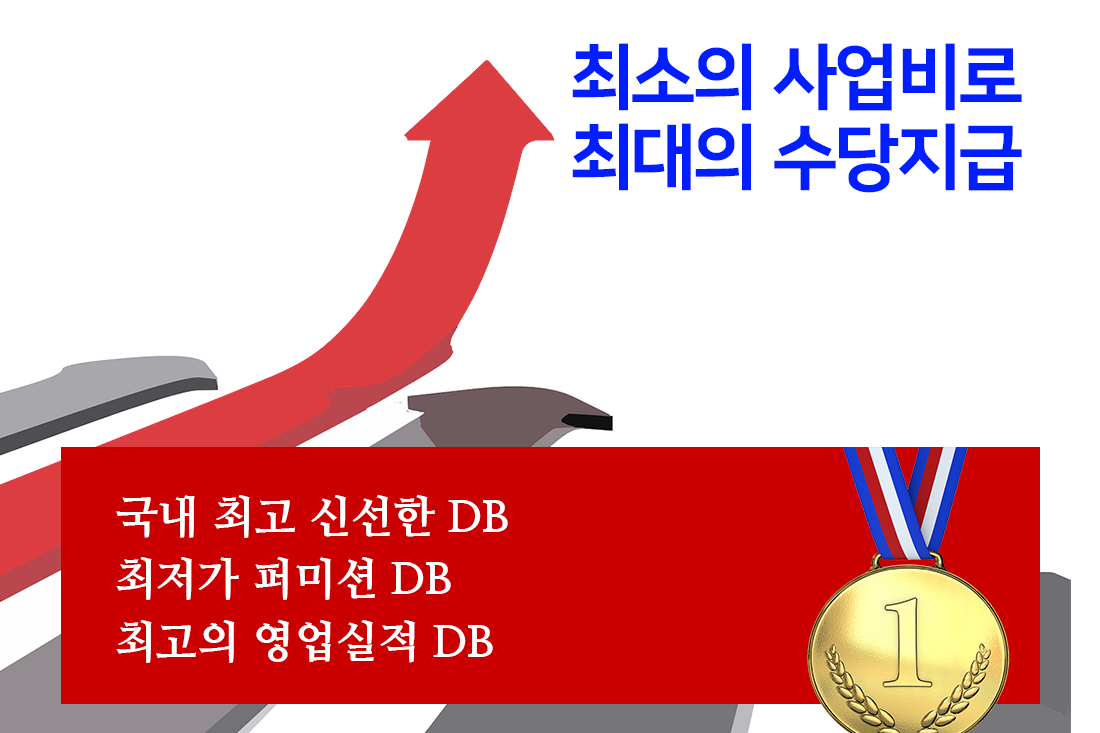
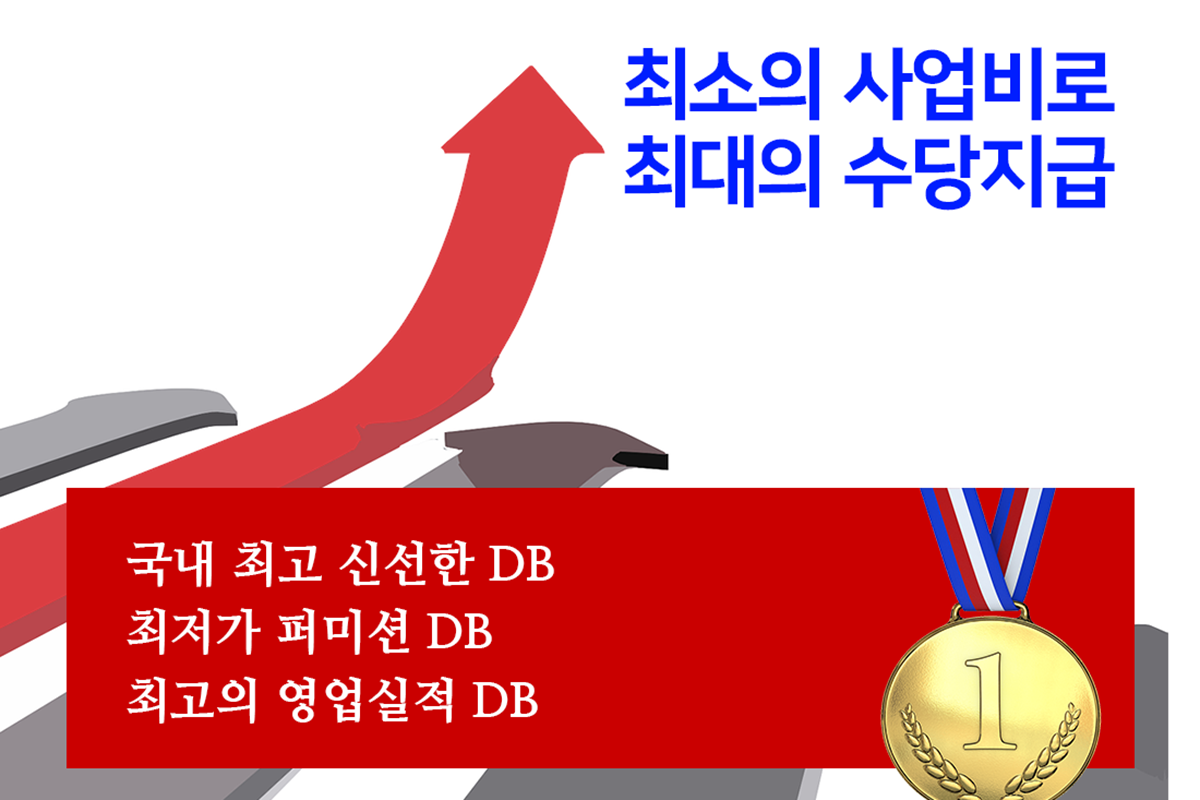
1208-15:00 샤무실

diff --git a/insurance_site.html b/insurance_site.html
@@ -3,7 +3,7 @@
 <head>
     <meta charset="UTF-8">
     <meta name="viewport" content="width=device-width, initial-scale=1.0">
-    <title>Document</title>
+    <title>DREAM MAKER</title>
     <link href="https://hangeul.pstatic.net/hangeul_static/css/nanum-barun-gothic.css" rel="stylesheet">
     <link href="https://hangeul.pstatic.net/hangeul_static/css/nanum-square-round.css" rel="stylesheet">
     <link href="https://hangeul.pstatic.net/hangeul_static/css/nanum-myeongjo.css" rel="stylesheet">
@@ -35,7 +35,7 @@
                     <h2>업계 최상위 수수료</h2>
                 </div>
                 <div class="right">
-                    <h2>평생갱신수수표!<br>
+                    <h2>평생갱신수수료!<br>
                         업계 최고의 영업교육</h2>
                     <h2>One Call One Kill</h2>
                 </div>

diff --git a/css/insurance_site.css b/css/insurance_site.css
@@ -53,7 +53,7 @@ ul li{list-style-type: none;}
 }
 .sect01_subtitle{
     text-align: center; font-family: 'Noto Sans KR', sans-serif;
-    font-size: 1.5em; margin-top: 50px;
+    font-size: 1.5em; margin-top: 100px;
 }
 .sect01_subtitle > h1:first-of-type{
     color: rgb(0, 81, 255); 
@@ -227,7 +227,8 @@ ul li{list-style-type: none;}
 
 #sect05{
     background-image: url(../images/03.png); background-repeat: no-repeat;
-    background-position: center top; background-color: #e9e9e9;
+    background-position: center; background-color: #fff;
+    background-size: 1200px 800px;
     width: 100%; height: 737px; padding-top: 100px;
 }
 
